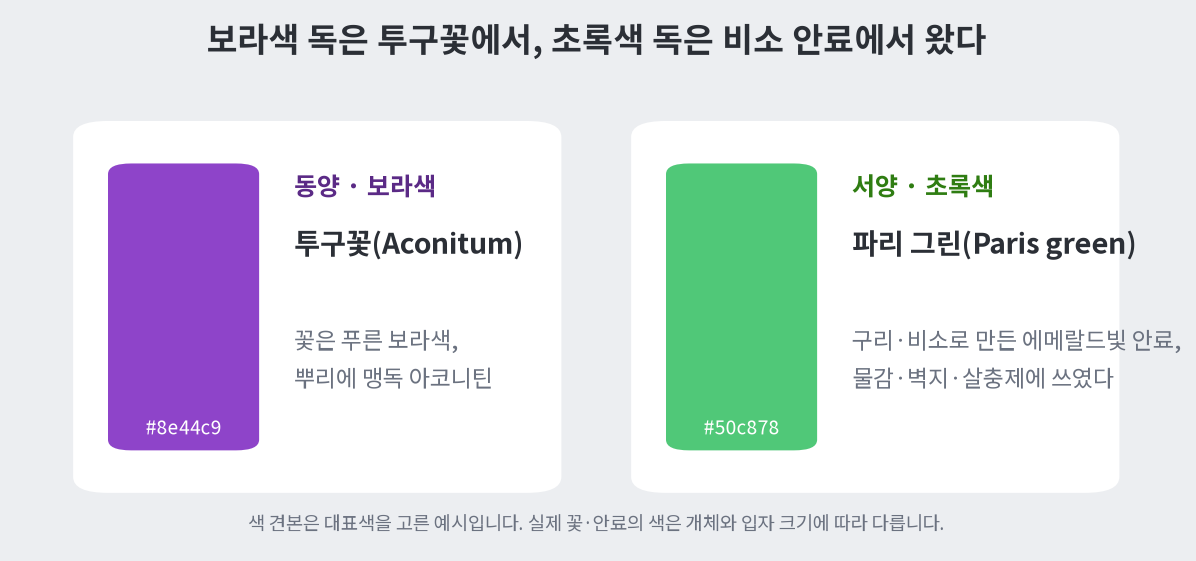
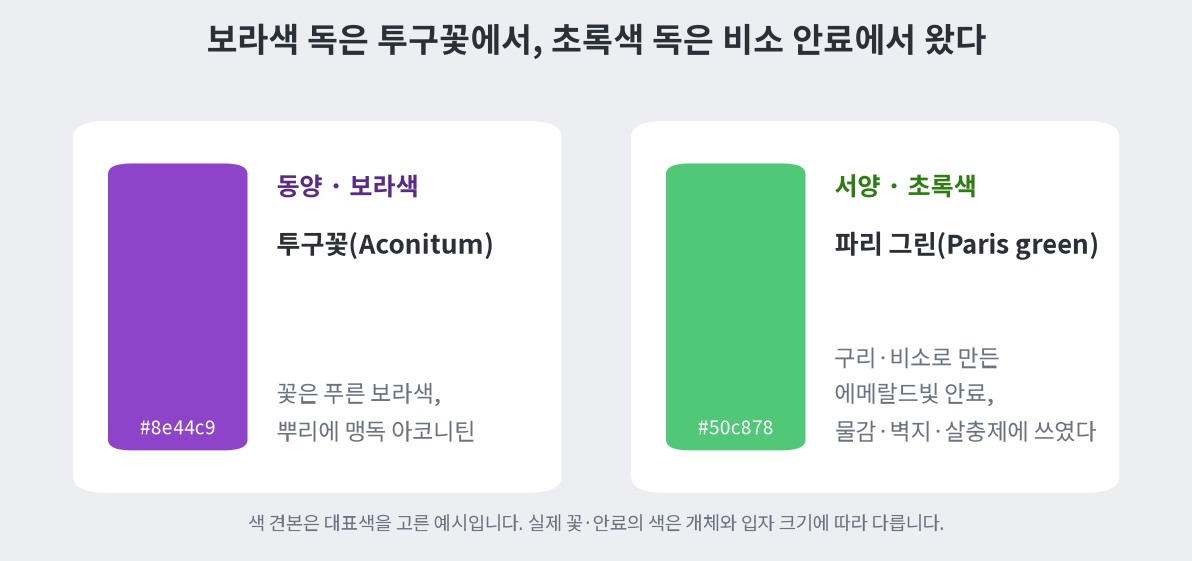
글: 독 색 글 그림 수정 (글자 넘침, 빨간 체력바에서 독·회복 구분)

diff --git a/research/poison-color/figs.py b/research/poison-color/figs.py
@@ -15,7 +15,8 @@ os.makedirs(OUT, exist_ok=True)
 BG = "#eceef1"
 INK = "#2b2f36"
 SUB = "#6b7280"
-HP = "#3fae4a"        # 체력바 초록
+HP = "#d64545"        # 체력바 빨강
+HEAL = "#5fd35f"      # 회복 초록
 PURPLE = "#8e44c9"    # 지속 피해 독
 PURPLE_D = "#5b2a86"
 GREEN = "#7cfc3a"     # 맹독 (형광 초록)
@@ -82,39 +83,50 @@ def fig1():
         (0.05, PURPLE, PURPLE_D, "동양 · 보라색", "투구꽃(Aconitum)",
          "꽃은 푸른 보라색,\n뿌리에 맹독 아코니틴", "#8e44c9"),
         (0.53, "#50c878", GREEN_D, "서양 · 초록색", "파리 그린(Paris green)",
-         "구리·비소로 만든 에메랄드빛 안료,\n물감·벽지·살충제에 쓰였다", "#50c878"),
+         "구리·비소로 만든\n에메랄드빛 안료,\n물감·벽지·살충제에 쓰였다", "#50c878"),
     ]
     for x, c, cd, head, name, desc, hexc in cards:
         rbox(ax, x, 0.1, 0.42, 0.7, "white", r=0.03)
-        rbox(ax, x + 0.03, 0.18, 0.13, 0.54, c, r=0.02, z=2)
-        ax.text(x + 0.095, 0.21, hexc, ha="center", fontsize=9, color="white", zorder=3)
-        ax.text(x + 0.19, 0.66, head, fontsize=12, color=cd, fontweight="bold")
-        ax.text(x + 0.19, 0.55, name, fontsize=13.5, color=INK, fontweight="bold")
-        ax.text(x + 0.19, 0.3, desc, fontsize=11, color=SUB, linespacing=1.6)
+        rbox(ax, x + 0.03, 0.18, 0.12, 0.54, c, r=0.02, z=2)
+        ax.text(x + 0.09, 0.21, hexc, ha="center", fontsize=9, color="white", zorder=3)
+        ax.text(x + 0.175, 0.66, head, fontsize=12, color=cd, fontweight="bold")
+        ax.text(x + 0.175, 0.55, name, fontsize=12.5, color=INK, fontweight="bold")
+        ax.text(x + 0.175, 0.2, desc, fontsize=11, color=SUB, linespacing=1.6)
     ax.text(0.5, 0.03, "색 견본은 대표색을 고른 예시입니다. 실제 꽃·안료의 색은 개체와 입자 크기에 따라 다릅니다.",
             ha="center", fontsize=9, color=SUB)
     fig.savefig(f"{OUT}/01_origin_colors.png", facecolor=BG, bbox_inches="tight")
 
 
-# ── 그림 2: 초록 체력바 위의 초록 독 vs 보라 독 ─────────────────
+# ── 그림 2: 빨간 체력바에서 초록 독은 회복과 헷갈린다 ─────────────
+def hpbar(ax, x, y, w, h, ratio, seg, mode):
+    """mode="poison": 현재 체력 끝 seg만큼을 덧칠(깎일 구간), mode="heal": 현재 체력 뒤로 seg만큼(찰 구간)"""
+    iw, ih = w - 0.008, h - 0.012
+    rbox(ax, x, y, w, h, "#3a3f47", r=0.01)
+    rbox(ax, x + 0.004, y + 0.006, iw * ratio, ih, HP, r=0.008, z=2)
+    sx = x + 0.004 + iw * (ratio - 0.18 if mode == "poison" else ratio)
+    ax.add_patch(Rectangle((sx, y + 0.006), iw * 0.18, ih, fc=seg, alpha=.9, zorder=3))
+    ax.text(x + w / 2, y + h / 2, "72 / 100", ha="center", va="center", color="white", fontsize=10.5,
+            fontweight="bold", zorder=4)
+
+
 def fig2():
-    fig, ax = plt.subplots(figsize=(10, 4.4), dpi=150)
+    fig, ax = plt.subplots(figsize=(10, 4.6), dpi=150)
     fig.patch.set_facecolor(BG); ax.set_facecolor(BG); ax.axis("off")
     ax.set_xlim(0, 1); ax.set_ylim(0, 1)
-    ax.text(0.5, 0.93, "체력바가 초록색이면 초록 독은 체력바와 잘 구분되지 않는다",
+    ax.text(0.5, 0.93, "회복이 초록색이면 초록 독은 회복과 잘 구분되지 않는다",
             ha="center", fontsize=16, fontweight="bold", color=INK)
-    for x, tint, ic, icd, title, ok in [
-        (0.05, "#9be36a", "#8fd16a", GREEN_D, "초록 독", "❌"),
-        (0.53, PURPLE, PURPLE, PURPLE_D, "보라 독", "✅"),
+    for x, pc, title, verdict in [
+        (0.05, HEAL, "초록 독", "독인지 회복인지 한 번 더 봐야 한다"),
+        (0.53, PURPLE, "보라 독", "독과 회복이 바로 갈린다"),
     ]:
-        rbox(ax, x, 0.1, 0.42, 0.7, "#1f2329", r=0.03)
-        ax.text(x + 0.03, 0.7, title, fontsize=13, color="white", fontweight="bold")
-        drop(ax, x + 0.07, 0.45, 0.025, ic, icd)
-        bar(ax, x + 0.13, 0.43, 0.26, 0.1, 0.72, HP, tint=tint, label="72 / 100")
-        ax.text(x + 0.13, 0.33, "독으로 깎일 구간을 덧칠", fontsize=10, color="#aab0ba")
-        ax.text(x + 0.03, 0.17, ("어디까지가 독인지 안 보인다" if ok == "❌" else "한눈에 독 구간이 보인다"),
-                fontsize=11.5, color="white")
-    ax.text(0.5, 0.03, "직접 만든 예시 UI입니다. 실제 게임 화면이 아닙니다.", ha="center", fontsize=9, color=SUB)
+        rbox(ax, x, 0.1, 0.42, 0.72, "#1f2329", r=0.03)
+        ax.text(x + 0.03, 0.73, title, fontsize=13, color="white", fontweight="bold")
+        for y, lab, seg, mode in [(0.5, "독", pc, "poison"), (0.34, "회복", HEAL, "heal")]:
+            ax.text(x + 0.03, y + 0.045, lab, fontsize=11, color="#aab0ba", va="center")
+            hpbar(ax, x + 0.1, y, 0.29, 0.09, 0.72, seg, mode)
+        ax.text(x + 0.03, 0.17, verdict, fontsize=11.5, color="white")
+    ax.text(0.5, 0.03, "직접 만든 예시 UI입니다. 실제 게임 화면이 아닙니다. 체력바는 빨강, 회복은 초록으로 가정했습니다.",
+            ha="center", fontsize=9, color=SUB)
     fig.savefig(f"{OUT}/02_hpbar_contrast.png", facecolor=BG, bbox_inches="tight")
 
 
@@ -138,7 +150,7 @@ def fig3():
             drop(top, 0.15, 0.4, 0.06, c, "white")
         else:
             skull(top, 0.15, 0.5, 0.075, c, "#14210c")
-        top.text(0.3, 0.75, name, fontsize=13.5, color=c, fontweight="bold", va="center")
+        top.text(0.3, 0.75, name, fontsize=12.5, color=c, fontweight="bold", va="center")
         top.text(0.3, 0.38, rule, fontsize=10.5, color="#dfe3ea", va="center", linespacing=1.6)
 
         g = fig.add_axes([x + 0.03, 0.1, 0.36, 0.32]); g.set_facecolor(BG)

diff --git a/src/content/posts/poison-color.md b/src/content/posts/poison-color.md
@@ -44,11 +44,11 @@ draft: false
 
 기원만 보면 무승부였는데, 영상 후반의 이야기가 저에게는 더 와닿았습니다. 게임 UI 관점에서 보면 초록색은 이미 다른 의미를 갖고 있다는 점입니다.
 
-많은 게임에서 초록색은 체력과 회복을 뜻합니다. 체력바가 초록색인 게임에서 독까지 초록색이면, 독으로 깎일 구간이 체력바에 섞여 버립니다.
+많은 게임에서 초록색은 회복을 뜻합니다. 독까지 초록색이면, 체력바에 붙은 초록 구간이 독으로 깎일 몫인지 회복으로 찰 몫인지 한 번 더 봐야 합니다.
 
-![초록 체력바 위에 초록 독 구간과 보라 독 구간을 각각 덧칠한 예시 UI. 초록 독은 체력바와 비슷해 경계가 흐리고, 보라 독은 경계가 분명하다](/images/poison-color/02_hpbar_contrast.png)
+![빨간 체력바에 독 구간과 회복 구간을 덧칠한 예시 UI. 왼쪽은 독과 회복이 둘 다 초록이라 비슷해 보이고, 오른쪽은 독이 보라, 회복이 초록이라 바로 구분된다](/images/poison-color/02_hpbar_contrast.png)
 
-제가 직접 만든 예시 UI입니다. 같은 체력바에 독 구간만 다른 색으로 덧칠했습니다. 왼쪽은 어디까지가 체력이고 어디부터가 독인지 한 번 더 봐야 하지만, 오른쪽은 바로 보입니다.
+제가 직접 만든 예시 UI입니다. 체력바는 빨강, 회복은 초록으로 두고 독 구간의 색만 바꿨습니다. 왼쪽은 독과 회복이 같은 초록이라 위아래를 비교해야 구분되지만, 오른쪽은 색만 보고 바로 알 수 있습니다.
 
 생명을 뜻하는 색으로 죽음을 표현하는 게 맞나. 영상을 보면서 이 질문이 계속 머리에 남았습니다.
 
